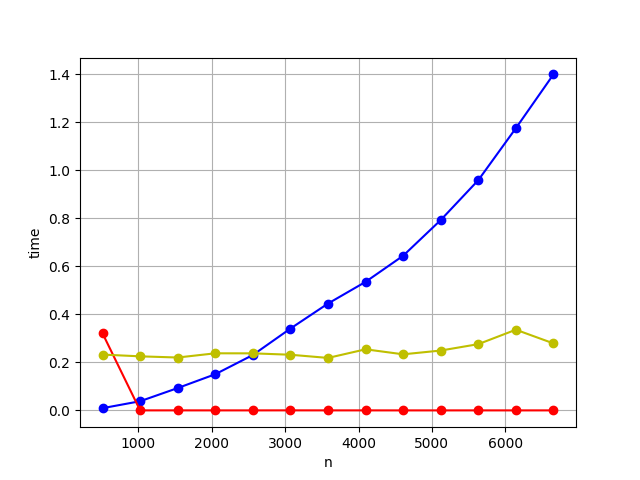
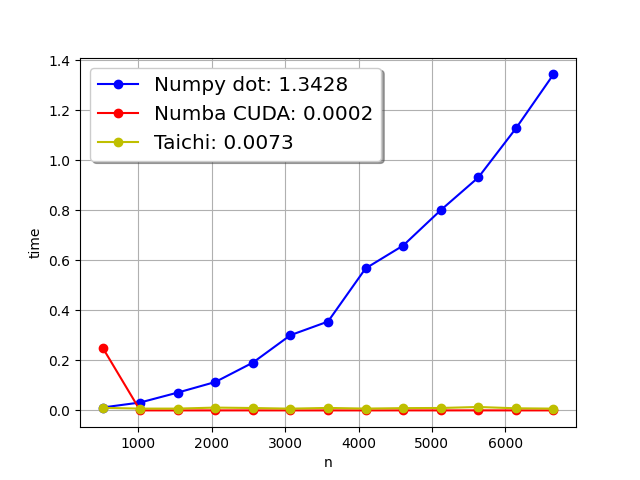
完善图

diff --git a/Taichi-Numba.py b/Taichi-Numba.py
@@ -45,9 +45,9 @@ def main0(A, B, n, d, m, times):
     C = np.dot(A, B)
     end_time = time.perf_counter()
     times[0].append(end_time - start_time)
-    print('Total Time with Numpy dot: %fs.' % (times[0][-1]))
+    #print('Total Time with Numpy dot: %fs.' % (times[0][-1]))
     #print(C[:5, :5])
-    print('*' * 64)
+    #print('*' * 64)
     #
     '''
     C = np.zeros((n, m))
@@ -55,9 +55,9 @@ def main0(A, B, n, d, m, times):
     matmul_CPU(A, B, C)
     end_time = time.perf_counter()
     times[1].append(end_time - start_time)
-    print('Total Time with Numba CPU: %fs.' % (times[1][-1]))
+    #print('Total Time with Numba CPU: %fs.' % (times[1][-1]))
     #print(C[:5, :5])
-    print('*' * 64)
+    #print('*' * 64)
     '''
     #
     C = np.zeros((n, m))
@@ -71,9 +71,9 @@ def main0(A, B, n, d, m, times):
     #d_C.copy_to_host(C)
     C = d_C.copy_to_host()
     times[2].append(end_time - start_time)
-    print('Total Time with Numba CUDA: %fs.' % (times[2][-1]))
+    #print('Total Time with Numba CUDA: %fs.' % (times[2][-1]))
     #print(C[:5, :5])
-    print('*' * 64)
+    #print('*' * 64)
 
 ################################################################################
 def main1(A, B, n, d, m, times):
@@ -89,13 +89,15 @@ def main1(A, B, n, d, m, times):
     A_tc.from_numpy(A)
     B_tc.from_numpy(B)
     C_tc.from_numpy(C)
+    matmul_TaiChi(d)
+    #C_tc.from_numpy(C)
     start_time = time.perf_counter()
     matmul_TaiChi(d)
     end_time = time.perf_counter()
     times[3].append(end_time - start_time)
-    print('Total Time with TaiChi: %fs.' % (times[3][-1]))
+    #print('Total Time with TaiChi: %fs.' % (times[3][-1]))
     #print(C_tc[4, 4])
-    print('*' * 64)
+    #print('*' * 64)
 
 ################################################################################
 if __name__ == '__main__':
@@ -110,10 +112,10 @@ if __name__ == '__main__':
         main1(As[i], Bs[i], nd[i], nd[i], m, times)
     #
     fig, ax = plt.subplots()
-    ax.plot(nd, times[0], 'o-', color = 'b', label='Numpy dot')
-    #ax.plot(nd, times[1], 'o-', color = 'g', label='Numba CPU')
-    ax.plot(nd, times[2], 'o-', color = 'r', label='Numba CUDA')
-    ax.plot(nd, times[3], 'o-', color = 'y', label='Taichi')
+    ax.plot(nd, times[0], 'o-', color = 'b', label = 'Numpy dot: ' + str(round(times[0][-1], 4)))
+    #ax.plot(nd, times[1], 'o-', color = 'g', label = 'Numba CPU: ' + str(round(times[1][-1], 4)))
+    ax.plot(nd, times[2], 'o-', color = 'r', label = 'Numba CUDA: ' + str(round(times[2][-1], 4)))
+    ax.plot(nd, times[3], 'o-', color = 'y', label = 'Taichi: ' + str(round(times[3][-1], 4)))
     ax.set(xlabel = 'n', ylabel = 'time')
     ax.legend(loc = 'best', shadow = True, fontsize = 'x-large')
     ax.grid()
